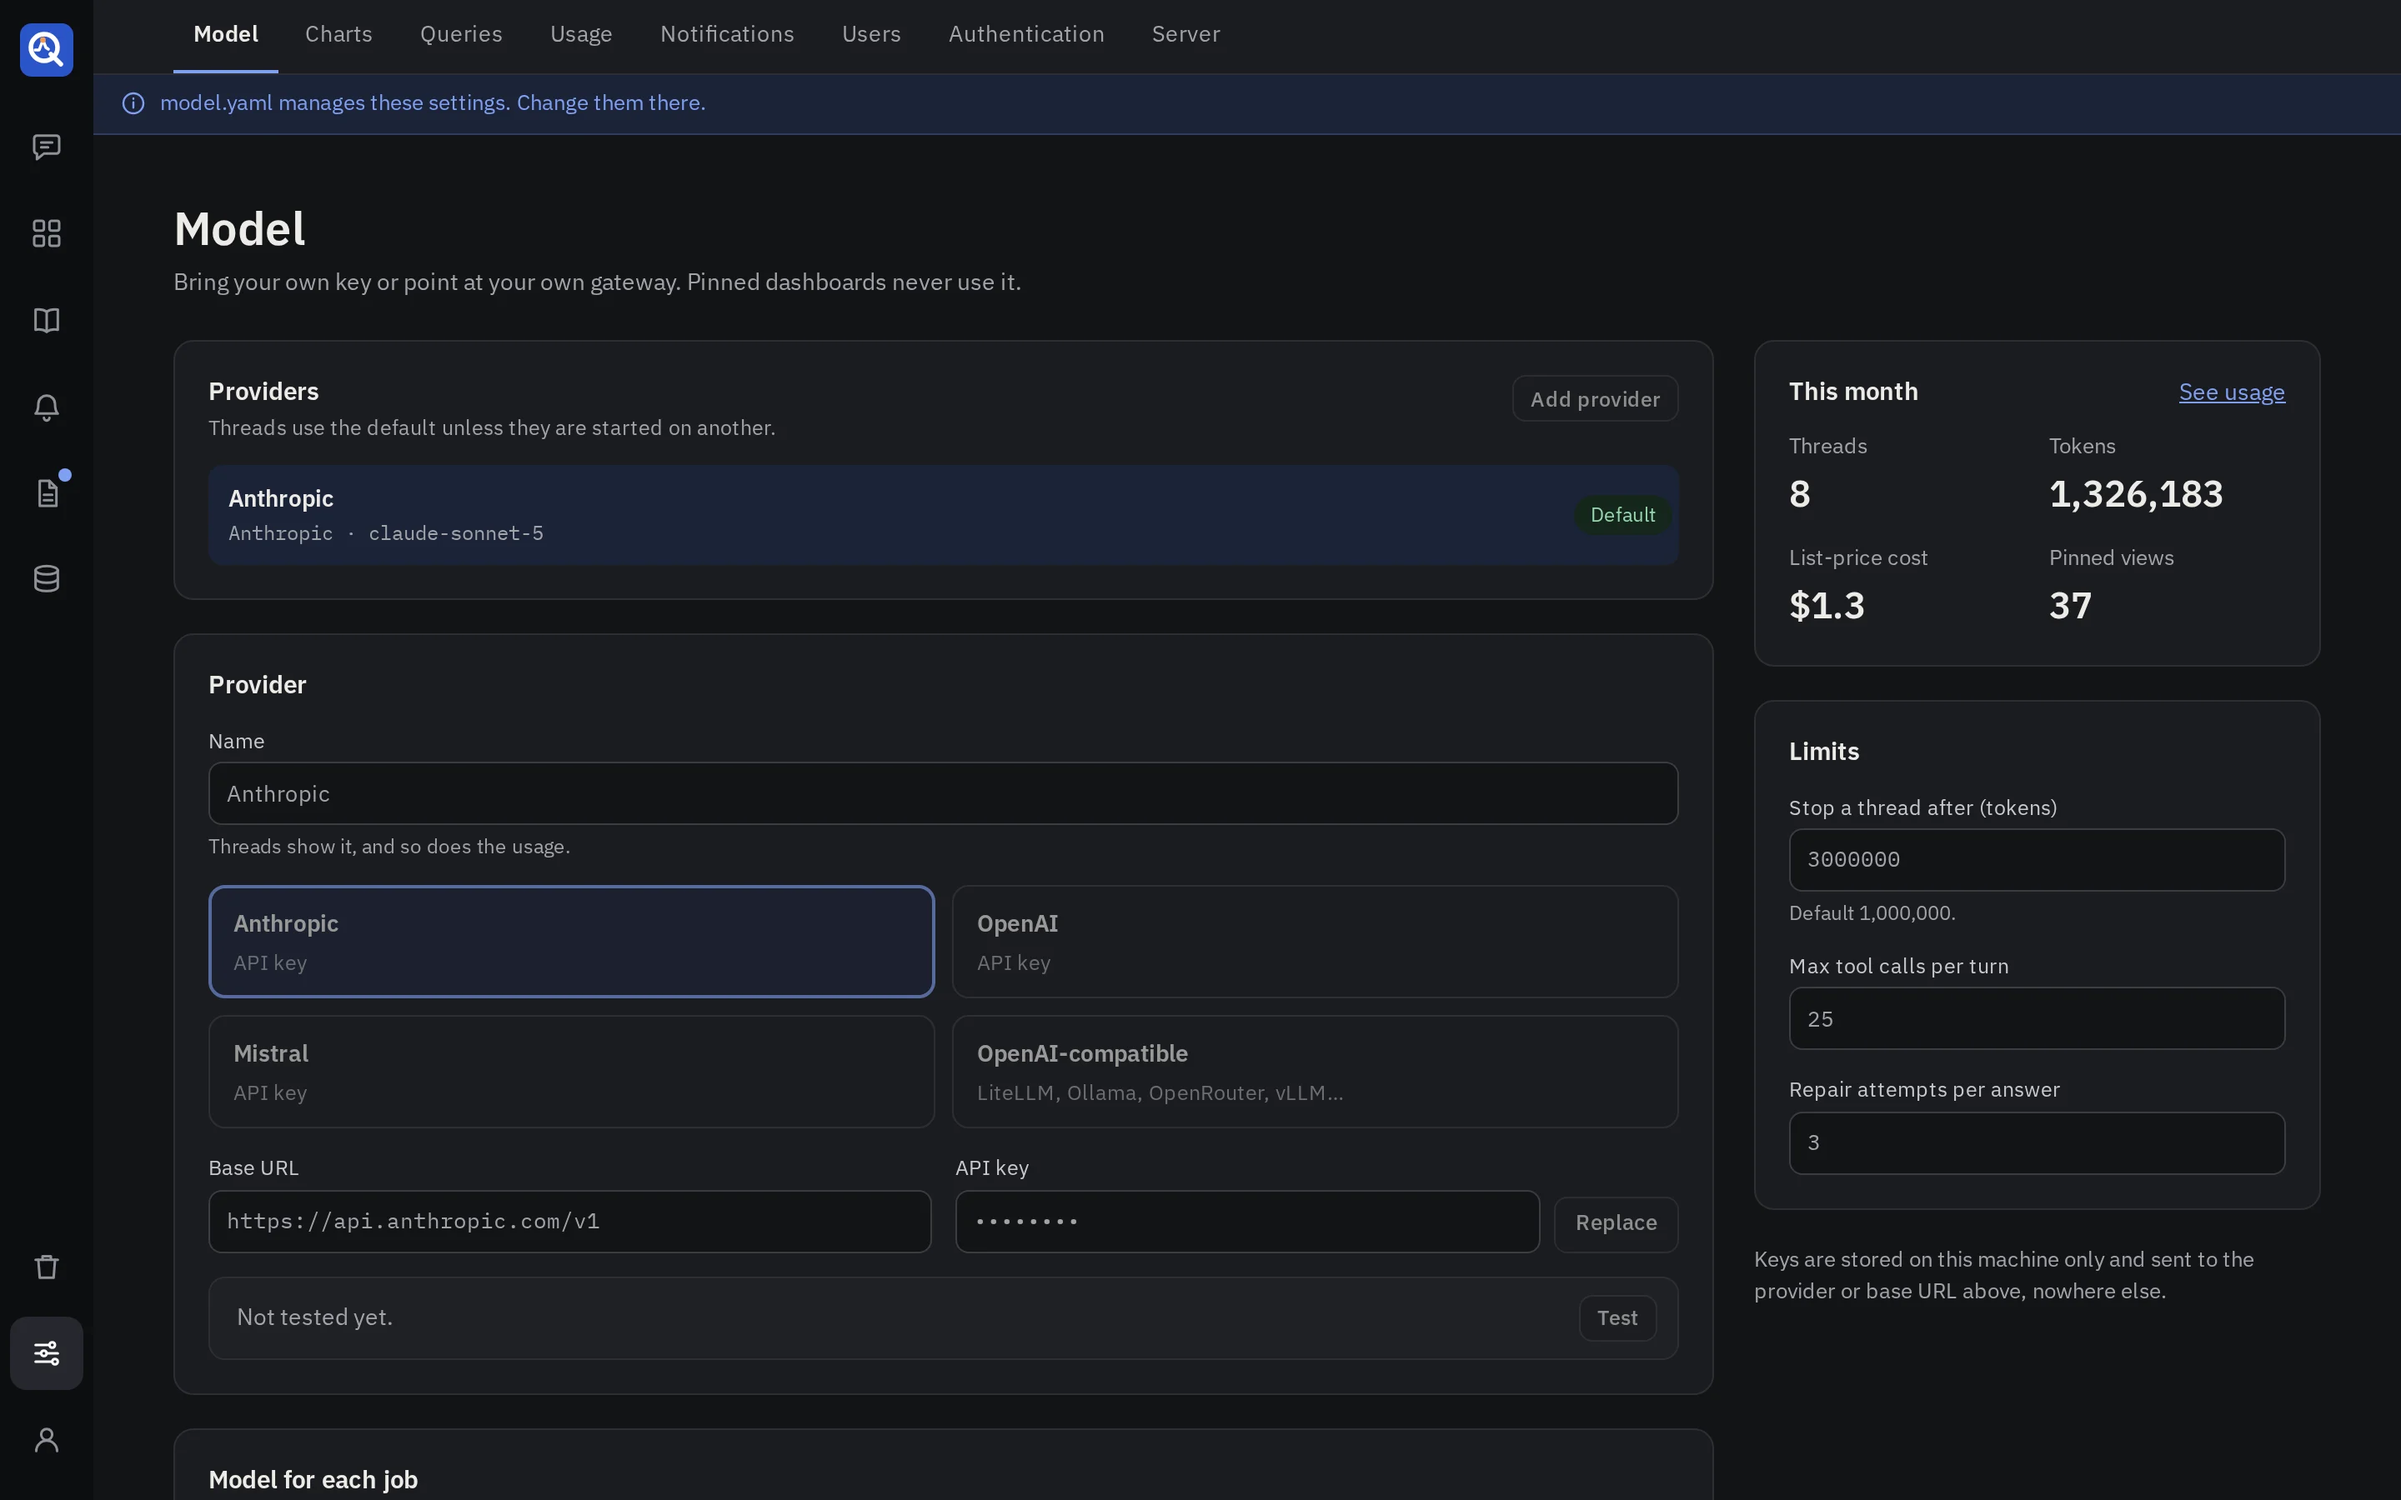
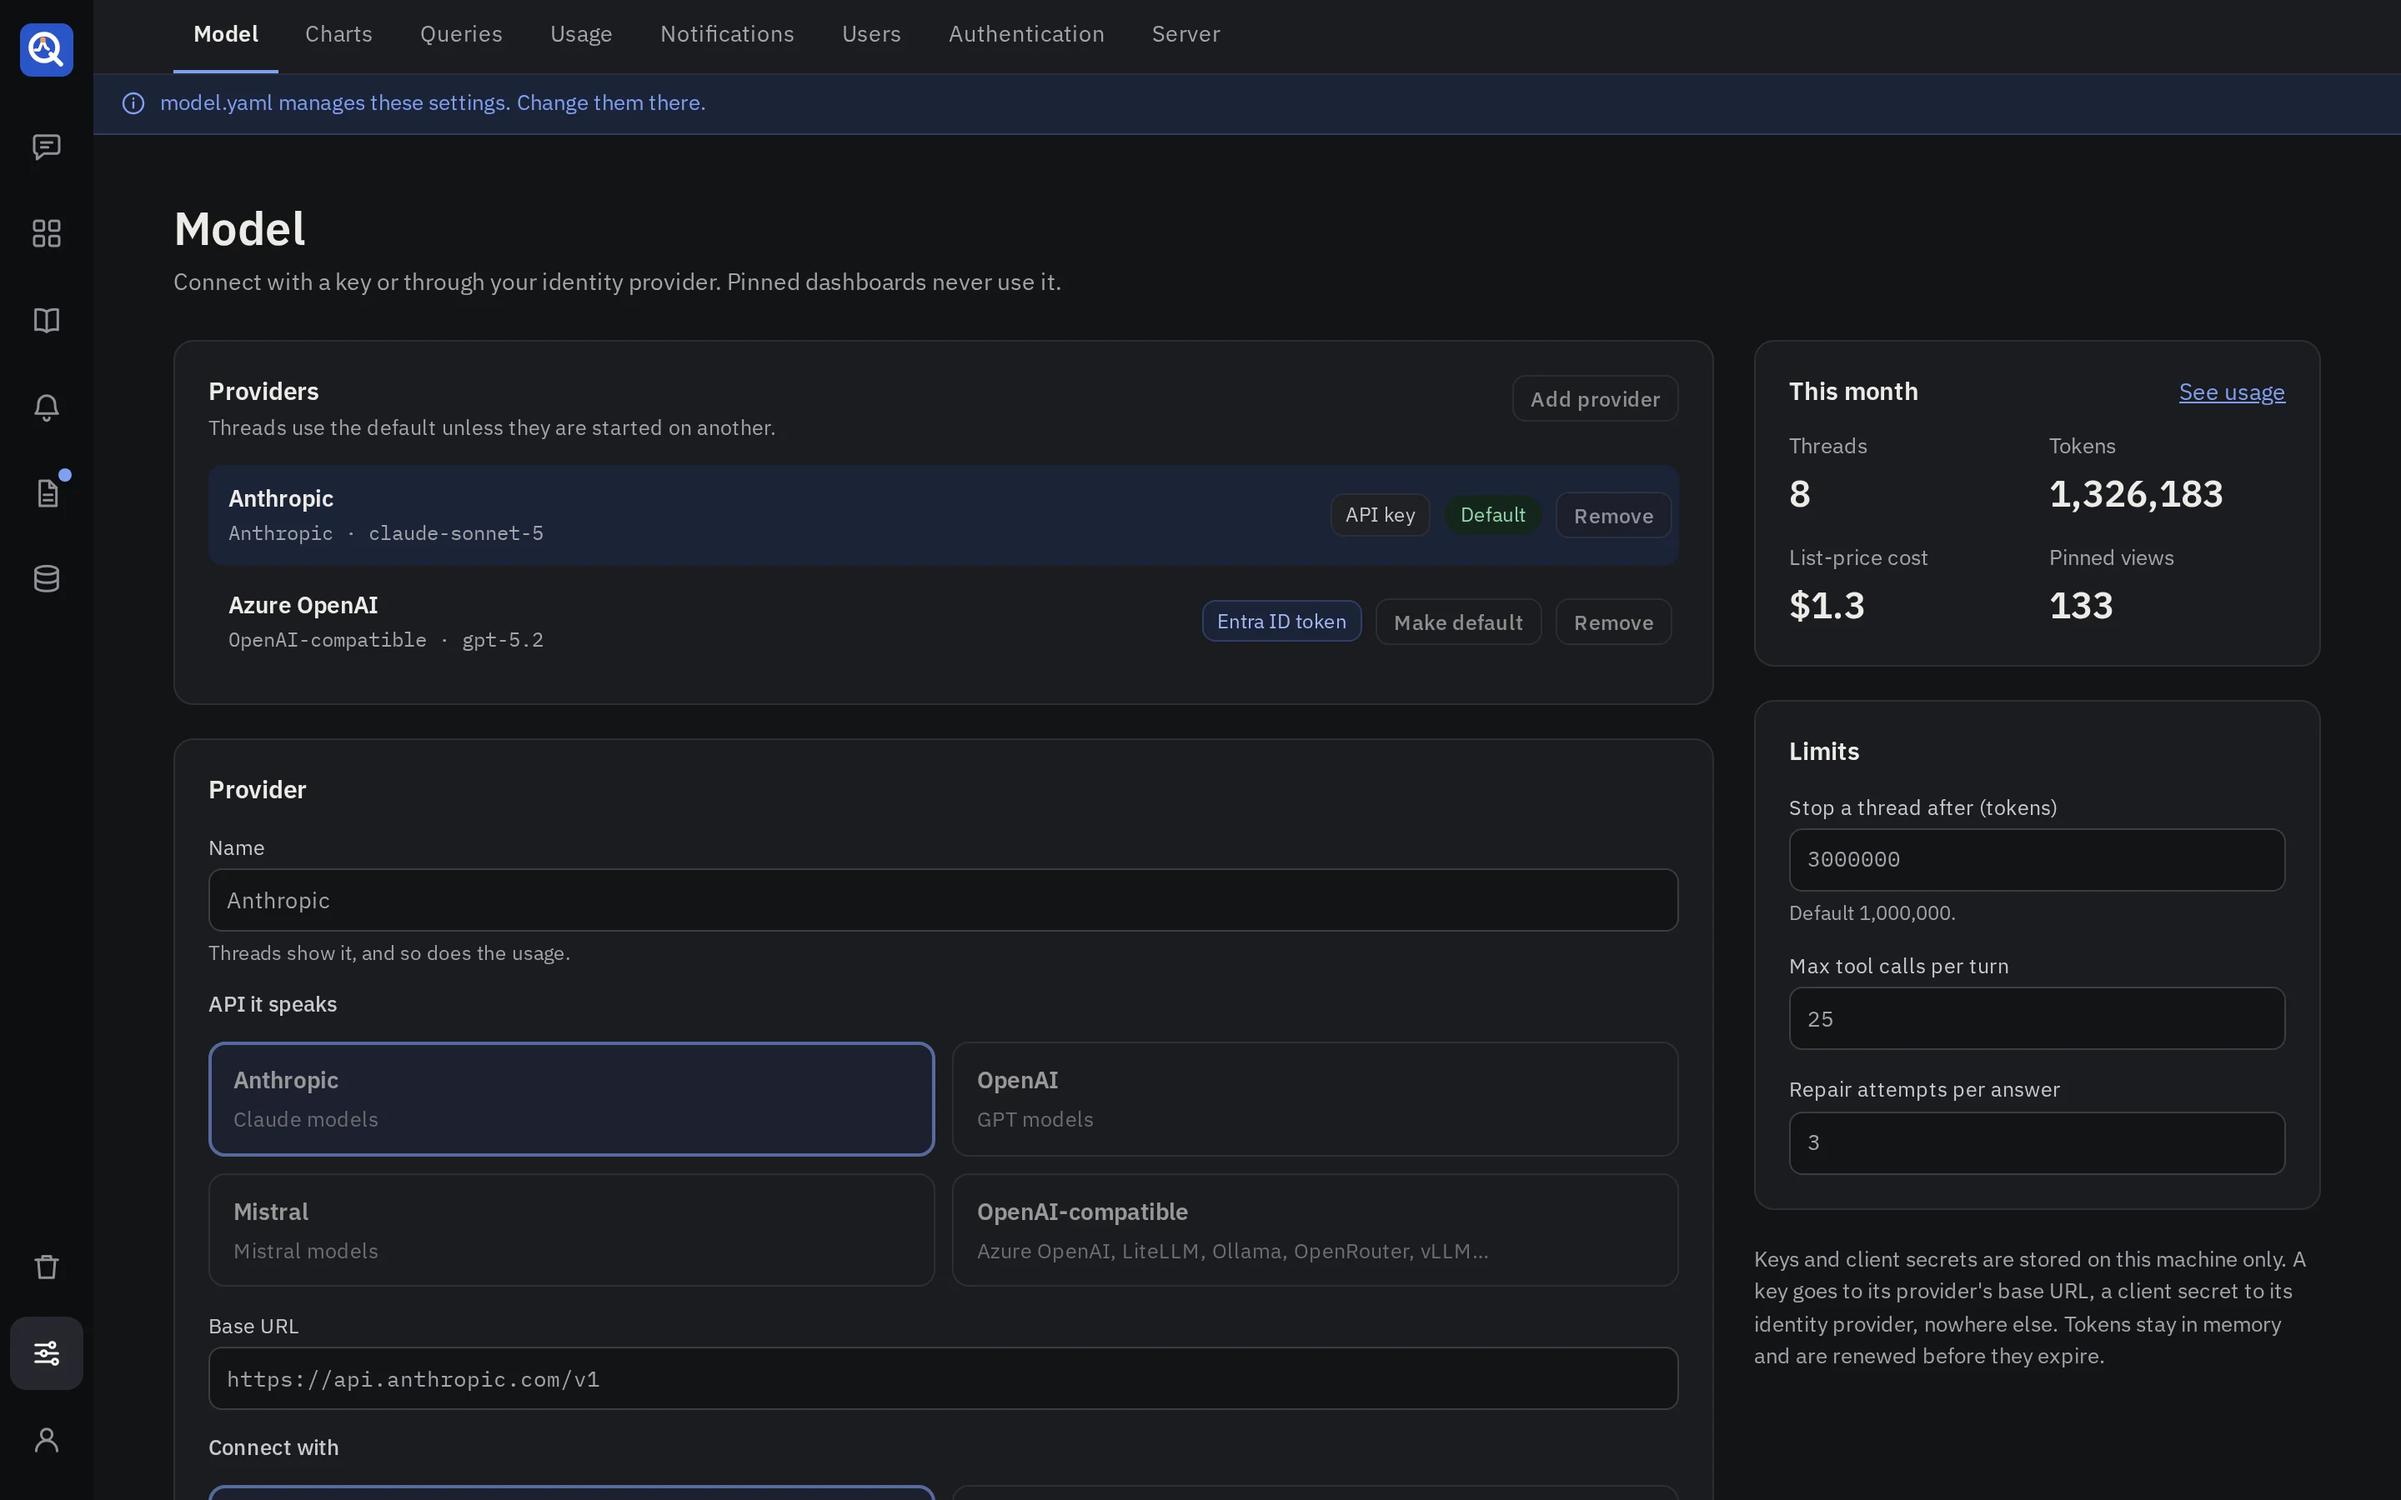
docs: screenshot a model provider reached through an identity provider
The screenshot instance declares a second provider, Azure OpenAI through Entra ID, with a
placeholder client secret and a tenant that does not exist. A new shot selects it and shows its
connection. The Settings → Model shots are retaken for the new form.

diff --git a/dev/screenshots/shots.ts b/dev/screenshots/shots.ts
@@ -66,6 +66,7 @@ function shotsOf(made: Scenario): Shot[] {
     { name: 'connectors', path: '/connectors' },
     { name: 'connector', path: '/connectors/postgres-orders' },
     { name: 'settings-model', path: '/settings/model' },
+    { name: 'settings-model-identity', path: '/settings/model', before: identityProviderShown },
     { name: 'settings-usage', path: '/settings/usage?by=feature' },
     { name: 'settings-users', path: '/settings/users' },
     { name: 'settings-auth', path: '/settings/auth' },
@@ -97,6 +98,32 @@ async function askOpened(page: Page): Promise<void> {
   await click(/^Ask about this$/)(page);
   await page.getByText('What happened around 14:00?').first().click();
   await page.waitForTimeout(1500);
+}
+
+/**
+ * Selects the provider reached through Entra ID and scrolls to its card.
+ *
+ * @param page - The page.
+ */
+async function identityProviderShown(page: Page): Promise<void> {
+  // model.yaml manages the instance, so the page disables its form, the provider list included.
+  const form = await page.locator('fieldset[disabled]').first().elementHandle();
+  if (!form) throw new Error('The model settings are not managed by a file.');
+  await form.evaluate((element: HTMLFieldSetElement) => {
+    element.disabled = false;
+  });
+  await page.getByRole('button', { name: /^Azure OpenAI/ }).click();
+  await form.evaluate((element: HTMLFieldSetElement) => {
+    element.disabled = true;
+  });
+  await page.waitForTimeout(800);
+  // The provider card from its API to the test fills the window. The model fields below fail to
+  // list the fake tenant's models, so they stay out of it.
+  await page
+    .getByText('API it speaks', { exact: true })
+    .first()
+    .evaluate((element) => element.scrollIntoView({ block: 'start' }));
+  await page.waitForTimeout(1000);
 }
 
 /** Who signs in to take the shots. */

diff --git a/dev/screenshots/run.ts b/dev/screenshots/run.ts
@@ -70,6 +70,7 @@ function startServer(provider: Provider) {
       QUANTHEA_PORT: new URL(baseUrl).port,
       QUANTHEA_SHOTS_PASSWORD: password,
       QUANTHEA_SHOTS_DB_PASSWORD: 'dash-ro-dev',
+      QUANTHEA_SHOTS_CLIENT_SECRET: 'screenshots-only-0000',
     },
   });
 }

diff --git a/docs/guide/models-and-usage.md b/docs/guide/models-and-usage.md
@@ -8,8 +8,8 @@ Both screens are for admins.
 
 ## Providers
 
-![Settings → Model: a provider with its key and the model for each job, the limits and the behaviour switches](../screenshots/settings-model-light.webp#gh-light-mode-only)
-![Settings → Model: a provider with its key and the model for each job, the limits and the behaviour switches](../screenshots/settings-model-dark.webp#gh-dark-mode-only)
+![Settings → Model: two providers, one with an API key and one through Entra ID, the provider being edited, and the limits](../screenshots/settings-model-light.webp#gh-light-mode-only)
+![Settings → Model: two providers, one with an API key and one through Entra ID, the provider being edited, and the limits](../screenshots/settings-model-dark.webp#gh-dark-mode-only)
 
 Add a provider and pick its vendor:
 
@@ -29,6 +29,9 @@ Give each provider a name people recognise ("Mistral free", "Claude for builds")
 show it. The providers list says how each one connects, and which still needs a key or secret.
 
 ### Connect through an identity provider
+
+![Settings → Model: a provider reached through Entra ID, with its issuer, client, scope, and where the token goes](../screenshots/settings-model-identity-light.webp#gh-light-mode-only)
+![Settings → Model: a provider reached through Entra ID, with its issuer, client, scope, and where the token goes](../screenshots/settings-model-identity-dark.webp#gh-dark-mode-only)
 
 Register quanthea as an app (a client) in your identity provider and give it access to the
 gateway. Then, on the provider:
